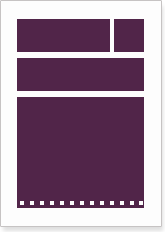
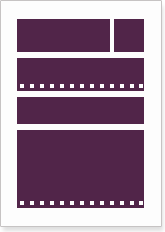
NEXTEUROPA-4967: Modified layout.
Former-commit-id: a25d1dda177a48fcf2a9f29caa6ab2119d4737d7

diff --git a/project/themes/europa/css/style-sass.css b/project/themes/europa/css/style-sass.css
@@ -1372,7 +1372,7 @@ pre {
   .listing__wrapper--row-two .listing:after {
     clear: both; }
 
-.col-xs-1, .col-sm-1, .col-md-1, .col-lg-1, .col-xs-2, .col-sm-2, .col-md-2, .col-lg-2, .col-xs-3, .col-sm-3, .col-md-3, .context-nav__label, .col-lg-3, .col-xs-4, .col-sm-4, .sidebar-field-group__sidebar, .col-md-4, .section--row-three .section__item, .listing__wrapper--three-columns .listing, .listing__wrapper--row-three .listing__item, .col-lg-4, .col-xs-5, .col-sm-5, .col-md-5, .featured-item__image, .col-lg-5, .col-xs-6, .col-sm-6, .listing__wrapper--two-columns .listing, .col-md-6, .section--row-two .section__item, .banner__paragraph, .banner__left, .listing__wrapper--two-columns .listing--title-large, .listing__wrapper--row-two .listing__item, .col-lg-6, .col-xs-7, .col-sm-7, .col-md-7, .featured-item__content, .col-lg-7, .col-xs-8, .col-sm-8, .sidebar-field-group__main, .col-md-8, .listing__wrapper--maxwidth .listing, .col-lg-8, .col-xs-9, .col-sm-9, .col-md-9, .context-nav__items, .col-lg-9, .col-xs-10, .col-sm-10, .col-md-10, .col-lg-10, .col-xs-11, .col-sm-11, .col-md-11, .col-lg-11, .col-xs-12, .context-nav__label, .context-nav__items, .col-sm-12, .col-md-12, .sidebar-field-group h2, .col-lg-12 {
+.col-xs-1, .col-sm-1, .col-md-1, .col-lg-1, .col-xs-2, .col-sm-2, .col-md-2, .col-lg-2, .col-xs-3, .col-sm-3, .col-md-3, .context-nav__label, .col-lg-3, .col-xs-4, .col-sm-4, .sidebar-field-group__sidebar, .col-md-4, .section--row-three .section__item, .listing__wrapper--three-columns .listing, .listing__wrapper--row-three .listing__item, .col-lg-4, .col-xs-5, .col-sm-5, .col-md-5, .featured-item__image, .col-lg-5, .col-xs-6, .col-sm-6, .listing__wrapper--two-columns .listing, .col-md-6, .section--row-two .section__item, .banner__paragraph, .banner__left, .listing__wrapper--two-columns .listing--title-large, .listing__wrapper--row-two .listing__item, .col-lg-6, .col-xs-7, .col-sm-7, .col-md-7, .featured-item__content, .col-lg-7, .col-xs-8, .col-sm-8, .sidebar-field-group__main, .col-md-8, .listing__wrapper--maxwidth .listing, .col-lg-8, .col-xs-9, .col-sm-9, .col-md-9, .context-nav__items, .col-lg-9, .paragraph-lg-9 p, .col-xs-10, .col-sm-10, .col-md-10, .col-lg-10, .col-xs-11, .col-sm-11, .col-md-11, .col-lg-11, .col-xs-12, .context-nav__label, .context-nav__items, .col-sm-12, .col-md-12, .sidebar-field-group h2, .col-lg-12 {
   position: relative;
   min-height: 1px;
   padding-left: 15px;
@@ -1747,7 +1747,7 @@ pre {
     margin-left: 100%; } }
 
 @media (min-width: 1200px) {
-  .col-lg-1, .col-lg-2, .col-lg-3, .col-lg-4, .col-lg-5, .col-lg-6, .col-lg-7, .col-lg-8, .col-lg-9, .col-lg-10, .col-lg-11, .col-lg-12 {
+  .col-lg-1, .col-lg-2, .col-lg-3, .col-lg-4, .col-lg-5, .col-lg-6, .col-lg-7, .col-lg-8, .col-lg-9, .paragraph-lg-9 p, .col-lg-10, .col-lg-11, .col-lg-12 {
     float: left; }
   .col-lg-1 {
     width: 8.3333333333%; }
@@ -1765,7 +1765,7 @@ pre {
     width: 58.3333333333%; }
   .col-lg-8 {
     width: 66.6666666667%; }
-  .col-lg-9 {
+  .col-lg-9, .paragraph-lg-9 p {
     width: 75%; }
   .col-lg-10 {
     width: 83.3333333333%; }
@@ -6256,6 +6256,9 @@ Styleguide text.paragraphs
   margin-bottom: 0.8em;
   max-width: 32em; }
 
+.paragraph-lg-9 p {
+  max-width: inherit; }
+
 /*
 Radio
 
@@ -6423,6 +6426,9 @@ Styleguide form.textarea
 .page-content {
   margin-top: 60px;
   margin-bottom: 30px; }
+
+.page-content-without-top-margin {
+  margin-top: 0px; }
 
 .main-content {
   overflow-x: hidden; }
@@ -7178,7 +7184,7 @@ Styleguide field
     margin-right: 0;
     padding-left: 0;
     padding-right: 0; }
-  .col-lg-3 + .col-lg-9 .field--full-width {
+  .col-lg-3 + .col-lg-9 .field--full-width, .paragraph-lg-9 .col-lg-3 + p .field--full-width {
     position: relative;
     left: -25%;
     width: 125%; } }
@@ -9349,7 +9355,6 @@ Markup: html/top-image.html
 Styleguide top-image
 */
 .top-image {
-  height: 500px;
   overflow: hidden; }
   .top-image picture {
     display: block;

diff --git a/project/themes/europa/styleguide/assets/public/css/style-sass.css b/project/themes/europa/styleguide/assets/public/css/style-sass.css
@@ -1372,7 +1372,7 @@ pre {
   .listing__wrapper--row-two .listing:after {
     clear: both; }
 
-.col-xs-1, .col-sm-1, .col-md-1, .col-lg-1, .col-xs-2, .col-sm-2, .col-md-2, .col-lg-2, .col-xs-3, .col-sm-3, .col-md-3, .context-nav__label, .col-lg-3, .col-xs-4, .col-sm-4, .sidebar-field-group__sidebar, .col-md-4, .section--row-three .section__item, .listing__wrapper--three-columns .listing, .listing__wrapper--row-three .listing__item, .col-lg-4, .col-xs-5, .col-sm-5, .col-md-5, .featured-item__image, .col-lg-5, .col-xs-6, .col-sm-6, .listing__wrapper--two-columns .listing, .col-md-6, .section--row-two .section__item, .banner__paragraph, .banner__left, .listing__wrapper--two-columns .listing--title-large, .listing__wrapper--row-two .listing__item, .col-lg-6, .col-xs-7, .col-sm-7, .col-md-7, .featured-item__content, .col-lg-7, .col-xs-8, .col-sm-8, .sidebar-field-group__main, .col-md-8, .listing__wrapper--maxwidth .listing, .col-lg-8, .col-xs-9, .col-sm-9, .col-md-9, .context-nav__items, .col-lg-9, .col-xs-10, .col-sm-10, .col-md-10, .col-lg-10, .col-xs-11, .col-sm-11, .col-md-11, .col-lg-11, .col-xs-12, .context-nav__label, .context-nav__items, .col-sm-12, .col-md-12, .sidebar-field-group h2, .col-lg-12 {
+.col-xs-1, .col-sm-1, .col-md-1, .col-lg-1, .col-xs-2, .col-sm-2, .col-md-2, .col-lg-2, .col-xs-3, .col-sm-3, .col-md-3, .context-nav__label, .col-lg-3, .col-xs-4, .col-sm-4, .sidebar-field-group__sidebar, .col-md-4, .section--row-three .section__item, .listing__wrapper--three-columns .listing, .listing__wrapper--row-three .listing__item, .col-lg-4, .col-xs-5, .col-sm-5, .col-md-5, .featured-item__image, .col-lg-5, .col-xs-6, .col-sm-6, .listing__wrapper--two-columns .listing, .col-md-6, .section--row-two .section__item, .banner__paragraph, .banner__left, .listing__wrapper--two-columns .listing--title-large, .listing__wrapper--row-two .listing__item, .col-lg-6, .col-xs-7, .col-sm-7, .col-md-7, .featured-item__content, .col-lg-7, .col-xs-8, .col-sm-8, .sidebar-field-group__main, .col-md-8, .listing__wrapper--maxwidth .listing, .col-lg-8, .col-xs-9, .col-sm-9, .col-md-9, .context-nav__items, .col-lg-9, .paragraph-lg-9 p, .col-xs-10, .col-sm-10, .col-md-10, .col-lg-10, .col-xs-11, .col-sm-11, .col-md-11, .col-lg-11, .col-xs-12, .context-nav__label, .context-nav__items, .col-sm-12, .col-md-12, .sidebar-field-group h2, .col-lg-12 {
   position: relative;
   min-height: 1px;
   padding-left: 15px;
@@ -1747,7 +1747,7 @@ pre {
     margin-left: 100%; } }
 
 @media (min-width: 1200px) {
-  .col-lg-1, .col-lg-2, .col-lg-3, .col-lg-4, .col-lg-5, .col-lg-6, .col-lg-7, .col-lg-8, .col-lg-9, .col-lg-10, .col-lg-11, .col-lg-12 {
+  .col-lg-1, .col-lg-2, .col-lg-3, .col-lg-4, .col-lg-5, .col-lg-6, .col-lg-7, .col-lg-8, .col-lg-9, .paragraph-lg-9 p, .col-lg-10, .col-lg-11, .col-lg-12 {
     float: left; }
   .col-lg-1 {
     width: 8.3333333333%; }
@@ -1765,7 +1765,7 @@ pre {
     width: 58.3333333333%; }
   .col-lg-8 {
     width: 66.6666666667%; }
-  .col-lg-9 {
+  .col-lg-9, .paragraph-lg-9 p {
     width: 75%; }
   .col-lg-10 {
     width: 83.3333333333%; }
@@ -6256,6 +6256,9 @@ Styleguide text.paragraphs
   margin-bottom: 0.8em;
   max-width: 32em; }
 
+.paragraph-lg-9 p {
+  max-width: inherit; }
+
 /*
 Radio
 
@@ -6423,6 +6426,9 @@ Styleguide form.textarea
 .page-content {
   margin-top: 60px;
   margin-bottom: 30px; }
+
+.page-content-without-top-margin {
+  margin-top: 0px; }
 
 .main-content {
   overflow-x: hidden; }
@@ -7178,7 +7184,7 @@ Styleguide field
     margin-right: 0;
     padding-left: 0;
     padding-right: 0; }
-  .col-lg-3 + .col-lg-9 .field--full-width {
+  .col-lg-3 + .col-lg-9 .field--full-width, .paragraph-lg-9 .col-lg-3 + p .field--full-width {
     position: relative;
     left: -25%;
     width: 125%; } }
@@ -9349,7 +9355,6 @@ Markup: html/top-image.html
 Styleguide top-image
 */
 .top-image {
-  height: 500px;
   overflow: hidden; }
   .top-image picture {
     display: block;

diff --git a/project/themes/europa/sass/base/_paragraphs.scss b/project/themes/europa/sass/base/_paragraphs.scss
@@ -14,3 +14,10 @@ Styleguide text.paragraphs
 p {
   @extend .paragraph;
 }
+
+.paragraph-lg-9 {
+  p {
+    @extend .col-lg-9;
+    max-width: inherit;
+  }
+}

diff --git a/project/themes/europa/sass/layout/_page-content.scss b/project/themes/europa/sass/layout/_page-content.scss
@@ -3,6 +3,10 @@
   margin-bottom: 30px;
 }
 
+.page-content-without-top-margin {
+  margin-top: 0px;
+}
+
 .main-content {
   overflow-x: hidden;
 }

diff --git a/project/themes/europa/sass/components/_top-image.scss b/project/themes/europa/sass/components/_top-image.scss
@@ -6,7 +6,6 @@ Markup: html/top-image.html
 Styleguide top-image
 */
 .top-image {
-  height: 500px;
   overflow: hidden;
 
   picture {

diff --git a/project/themes/europa/templates/ds/ne-bootstrap-1col-stacked-bottom-header--node.tpl.php b/project/themes/europa/templates/ds/ne-bootstrap-1col-stacked-bottom-header--node.tpl.php
@@ -39,7 +39,7 @@
       <?php print $bottom_header; ?>
     </<?php print $bottom_header_wrapper; ?>>
   <?php endif; ?>
-  <div class="page-content">
+  <div class="page-content page-content-without-top-margin">
     <div class="container-fluid">
       <div class="row">
         <?php if(!empty($top) || !empty($local_tabs) || !empty($messages)): ?>
